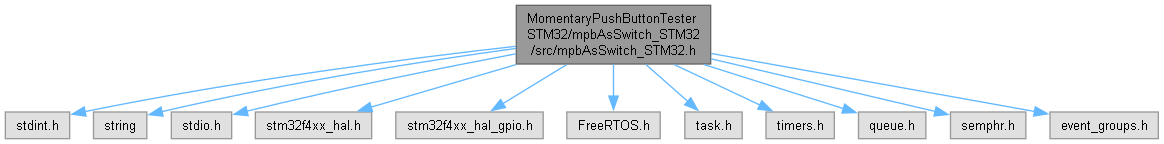
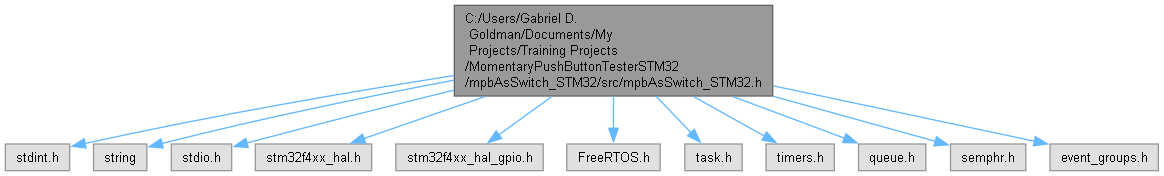
Documentation generation parameters reconfiguration

Changed region(s): [[0.0, 0.0, 1.0, 0.9722]]

diff --git a/docs/mpb_as_switch___s_t_m32_8h.html b/docs/mpb_as_switch___s_t_m32_8h.html
@@ -5,7 +5,7 @@
 <meta http-equiv="X-UA-Compatible" content="IE=11"/>
 <meta name="generator" content="Doxygen 1.10.0"/>
 <meta name="viewport" content="width=device-width, initial-scale=1"/>
-<title>MpbAsSwitch Library for STM32: MomentaryPushButtonTesterSTM32/mpbAsSwitch_STM32/src/mpbAsSwitch_STM32.h File Reference</title>
+<title>MpbAsSwitch Library for STM32: C:/Users/Gabriel D. Goldman/Documents/My Projects/Training Projects/MomentaryPushButtonTesterSTM32/mpbAsSwitch_STM32/src/mpbAsSwitch_STM32.h File Reference</title>
 <link href="tabs.css" rel="stylesheet" type="text/css"/>
 <script type="text/javascript" src="jquery.js"></script>
 <script type="text/javascript" src="dynsections.js"></script>
@@ -115,41 +115,41 @@ $(function(){initNavTree('mpb_as_switch___s_t_m32_8h.html',''); initResizable();
 </div><div class="textblock"><div class="dynheader">
 Include dependency graph for mpbAsSwitch_STM32.h:</div>
 <div class="dyncontent">
-<div class="center"><img src="mpb_as_switch___s_t_m32_8h__incl.png" border="0" usemap="#a_momentary_push_button_tester_s_t_m32_2mpb_as_switch___s_t_m32_2src_2mpb_as_switch___s_t_m32_8h" alt=""/></div>
-<map name="a_momentary_push_button_tester_s_t_m32_2mpb_as_switch___s_t_m32_2src_2mpb_as_switch___s_t_m32_8h" id="a_momentary_push_button_tester_s_t_m32_2mpb_as_switch___s_t_m32_2src_2mpb_as_switch___s_t_m32_8h">
-<area shape="rect" title=": Header file for the MpbAsSwitch_STM32 library classes" alt="" coords="516,5,711,64"/>
-<area shape="rect" title=" " alt="" coords="5,112,70,139"/>
-<area shape="poly" title=" " alt="" coords="516,49,321,74,85,114,84,109,320,69,515,44"/>
-<area shape="rect" title=" " alt="" coords="94,112,147,139"/>
-<area shape="poly" title=" " alt="" coords="516,51,355,76,163,114,161,109,354,71,516,46"/>
-<area shape="rect" title=" " alt="" coords="171,112,232,139"/>
-<area shape="poly" title=" " alt="" coords="516,56,392,81,247,114,246,109,391,76,515,51"/>
-<area shape="rect" title=" " alt="" coords="255,112,372,139"/>
-<area shape="poly" title=" " alt="" coords="517,67,372,110,370,105,515,62"/>
-<area shape="rect" title=" " alt="" coords="396,112,543,139"/>
-<area shape="poly" title=" " alt="" coords="568,67,504,106,501,101,565,62"/>
-<area shape="rect" title=" " alt="" coords="567,112,660,139"/>
-<area shape="poly" title=" " alt="" coords="616,64,616,96,611,96,611,64"/>
-<area shape="rect" title=" " alt="" coords="685,112,742,139"/>
-<area shape="poly" title=" " alt="" coords="647,62,690,100,686,104,644,66"/>
-<area shape="rect" title=" " alt="" coords="766,112,834,139"/>
-<area shape="poly" title=" " alt="" coords="675,62,761,103,759,107,673,67"/>
-<area shape="rect" title=" " alt="" coords="859,112,926,139"/>
-<area shape="poly" title=" " alt="" coords="705,62,844,106,843,111,703,67"/>
-<area shape="rect" title=" " alt="" coords="951,112,1026,139"/>
-<area shape="poly" title=" " alt="" coords="712,56,936,109,935,114,710,61"/>
-<area shape="rect" title=" " alt="" coords="1050,112,1158,139"/>
-<area shape="poly" title=" " alt="" coords="712,51,1035,109,1034,114,711,56"/>
+<div class="center"><img src="mpb_as_switch___s_t_m32_8h__incl.png" border="0" usemap="#a_c_1_2_users_2_gabriel_01_d_8_01_goldman_2_documents_2_my_01_projects_2_training_01_projects_2_momentary_push_button_tester_s_t_m32_2mpb_as_switch___s_t_m32_2src_2mpb_as_switch___s_t_m32_8h" alt=""/></div>
+<map name="a_c_1_2_users_2_gabriel_01_d_8_01_goldman_2_documents_2_my_01_projects_2_training_01_projects_2_momentary_push_button_tester_s_t_m32_2mpb_as_switch___s_t_m32_2src_2mpb_as_switch___s_t_m32_8h" id="a_c_1_2_users_2_gabriel_01_d_8_01_goldman_2_documents_2_my_01_projects_2_training_01_projects_2_momentary_push_button_tester_s_t_m32_2mpb_as_switch___s_t_m32_2src_2mpb_as_switch___s_t_m32_8h">
+<area shape="rect" title=": Header file for the MpbAsSwitch_STM32 library classes" alt="" coords="454,5,773,96"/>
+<area shape="rect" title=" " alt="" coords="5,144,70,171"/>
+<area shape="poly" title=" " alt="" coords="454,78,281,107,85,146,84,141,280,102,453,73"/>
+<area shape="rect" title=" " alt="" coords="94,144,147,171"/>
+<area shape="poly" title=" " alt="" coords="454,83,316,111,162,146,161,141,315,105,453,78"/>
+<area shape="rect" title=" " alt="" coords="171,144,232,171"/>
+<area shape="poly" title=" " alt="" coords="455,93,247,146,246,140,453,88"/>
+<area shape="rect" title=" " alt="" coords="255,144,372,171"/>
+<area shape="poly" title=" " alt="" coords="486,99,365,141,363,136,484,94"/>
+<area shape="rect" title=" " alt="" coords="396,144,543,171"/>
+<area shape="poly" title=" " alt="" coords="554,99,500,137,497,133,550,94"/>
+<area shape="rect" title=" " alt="" coords="567,144,660,171"/>
+<area shape="poly" title=" " alt="" coords="616,96,616,128,611,128,611,96"/>
+<area shape="rect" title=" " alt="" coords="685,144,742,171"/>
+<area shape="poly" title=" " alt="" coords="658,94,693,131,689,134,654,98"/>
+<area shape="rect" title=" " alt="" coords="766,144,834,171"/>
+<area shape="poly" title=" " alt="" coords="695,94,766,134,763,139,692,99"/>
+<area shape="rect" title=" " alt="" coords="859,144,926,171"/>
+<area shape="poly" title=" " alt="" coords="734,94,845,136,844,141,732,99"/>
+<area shape="rect" title=" " alt="" coords="951,144,1026,171"/>
+<area shape="poly" title=" " alt="" coords="774,94,936,139,935,144,772,99"/>
+<area shape="rect" title=" " alt="" coords="1050,144,1158,171"/>
+<area shape="poly" title=" " alt="" coords="774,83,1035,139,1034,144,773,88"/>
 </map>
 </div>
 </div><div class="textblock"><div class="dynheader">
 This graph shows which files directly or indirectly include this file:</div>
 <div class="dyncontent">
-<div class="center"><img src="mpb_as_switch___s_t_m32_8h__dep__incl.png" border="0" usemap="#a_momentary_push_button_tester_s_t_m32_2mpb_as_switch___s_t_m32_2src_2mpb_as_switch___s_t_m32_8hdep" alt=""/></div>
-<map name="a_momentary_push_button_tester_s_t_m32_2mpb_as_switch___s_t_m32_2src_2mpb_as_switch___s_t_m32_8hdep" id="a_momentary_push_button_tester_s_t_m32_2mpb_as_switch___s_t_m32_2src_2mpb_as_switch___s_t_m32_8hdep">
-<area shape="rect" title=": Header file for the MpbAsSwitch_STM32 library classes" alt="" coords="8,5,203,64"/>
-<area shape="rect" href="mpb_as_switch___s_t_m32_8cpp.html" title=": Source file for mpbAsSwitch_STM32 library classes methods" alt="" coords="5,112,206,171"/>
-<area shape="poly" title=" " alt="" coords="108,80,108,112,103,112,103,80"/>
+<div class="center"><img src="mpb_as_switch___s_t_m32_8h__dep__incl.png" border="0" usemap="#a_c_1_2_users_2_gabriel_01_d_8_01_goldman_2_documents_2_my_01_projects_2_training_01_projects_2_momentary_push_button_tester_s_t_m32_2mpb_as_switch___s_t_m32_2src_2mpb_as_switch___s_t_m32_8hdep" alt=""/></div>
+<map name="a_c_1_2_users_2_gabriel_01_d_8_01_goldman_2_documents_2_my_01_projects_2_training_01_projects_2_momentary_push_button_tester_s_t_m32_2mpb_as_switch___s_t_m32_2src_2mpb_as_switch___s_t_m32_8hdep" id="a_c_1_2_users_2_gabriel_01_d_8_01_goldman_2_documents_2_my_01_projects_2_training_01_projects_2_momentary_push_button_tester_s_t_m32_2mpb_as_switch___s_t_m32_2src_2mpb_as_switch___s_t_m32_8hdep">
+<area shape="rect" title=": Header file for the MpbAsSwitch_STM32 library classes" alt="" coords="5,5,324,96"/>
+<area shape="rect" href="mpb_as_switch___s_t_m32_8cpp.html" title=": Source file for mpbAsSwitch_STM32 library classes methods" alt="" coords="35,144,294,251"/>
+<area shape="poly" title=" " alt="" coords="167,112,167,143,162,143,162,112"/>
 </map>
 </div>
 </div>
@@ -245,7 +245,7 @@ Functions</h2></td></tr>
 <!-- start footer part -->
 <div id="nav-path" class="navpath"><!-- id is needed for treeview function! -->
   <ul>
-    <li class="navelem"><a class="el" href="dir_7a01880f1ccc9d36ca1d9e8d8522be43.html">MomentaryPushButtonTesterSTM32</a></li><li class="navelem"><a class="el" href="dir_9989949128607fa5c01dcc273d537277.html">mpbAsSwitch_STM32</a></li><li class="navelem"><a class="el" href="dir_26369db5e9e0b77b44bdca6bdc1633db.html">src</a></li><li class="navelem"><a class="el" href="mpb_as_switch___s_t_m32_8h.html">mpbAsSwitch_STM32.h</a></li>
+    <li class="navelem"><a class="el" href="dir_68267d1309a1af8e8297ef4c3efbcdba.html">src</a></li><li class="navelem"><a class="el" href="mpb_as_switch___s_t_m32_8h.html">mpbAsSwitch_STM32.h</a></li>
     <li class="footer">Generated by <a href="https://www.doxygen.org/index.html"><img class="footer" src="doxygen.svg" width="104" height="31" alt="doxygen"/></a> 1.10.0 </li>
   </ul>
 </div>

diff --git a/docs/mpb_as_switch___s_t_m32_8cpp.html b/docs/mpb_as_switch___s_t_m32_8cpp.html
@@ -5,7 +5,7 @@
 <meta http-equiv="X-UA-Compatible" content="IE=11"/>
 <meta name="generator" content="Doxygen 1.10.0"/>
 <meta name="viewport" content="width=device-width, initial-scale=1"/>
-<title>MpbAsSwitch Library for STM32: MomentaryPushButtonTesterSTM32/mpbAsSwitch_STM32/src/mpbAsSwitch_STM32.cpp File Reference</title>
+<title>MpbAsSwitch Library for STM32: C:/Users/Gabriel D. Goldman/Documents/My Projects/Training Projects/MomentaryPushButtonTesterSTM32/mpbAsSwitch_STM32/src/mpbAsSwitch_STM32.cpp File Reference</title>
 <link href="tabs.css" rel="stylesheet" type="text/css"/>
 <script type="text/javascript" src="jquery.js"></script>
 <script type="text/javascript" src="dynsections.js"></script>
@@ -104,33 +104,33 @@ $(function(){initNavTree('mpb_as_switch___s_t_m32_8cpp.html',''); initResizable(
 </div><div class="textblock"><div class="dynheader">
 Include dependency graph for mpbAsSwitch_STM32.cpp:</div>
 <div class="dyncontent">
-<div class="center"><img src="mpb_as_switch___s_t_m32_8cpp__incl.png" border="0" usemap="#a_momentary_push_button_tester_s_t_m32_2mpb_as_switch___s_t_m32_2src_2mpb_as_switch___s_t_m32_8cpp" alt=""/></div>
-<map name="a_momentary_push_button_tester_s_t_m32_2mpb_as_switch___s_t_m32_2src_2mpb_as_switch___s_t_m32_8cpp" id="a_momentary_push_button_tester_s_t_m32_2mpb_as_switch___s_t_m32_2src_2mpb_as_switch___s_t_m32_8cpp">
-<area shape="rect" title=": Source file for mpbAsSwitch_STM32 library classes methods" alt="" coords="513,5,714,64"/>
-<area shape="rect" href="mpb_as_switch___s_t_m32_8h.html" title=": Header file for the MpbAsSwitch_STM32 library classes" alt="" coords="533,112,694,139"/>
-<area shape="poly" title=" " alt="" coords="616,64,616,96,611,96,611,64"/>
-<area shape="rect" title=" " alt="" coords="5,187,70,213"/>
-<area shape="poly" title=" " alt="" coords="533,135,333,153,211,168,85,189,85,184,210,163,333,148,532,129"/>
-<area shape="rect" title=" " alt="" coords="94,187,147,213"/>
-<area shape="poly" title=" " alt="" coords="533,136,366,154,266,169,163,189,162,184,265,164,365,149,532,131"/>
-<area shape="rect" title=" " alt="" coords="171,187,232,213"/>
-<area shape="poly" title=" " alt="" coords="533,139,403,159,247,189,246,183,402,154,532,134"/>
-<area shape="rect" title=" " alt="" coords="255,187,372,213"/>
-<area shape="poly" title=" " alt="" coords="562,142,381,185,380,180,560,137"/>
-<area shape="rect" title=" " alt="" coords="396,187,543,213"/>
-<area shape="poly" title=" " alt="" coords="590,142,510,182,507,177,587,137"/>
-<area shape="rect" title=" " alt="" coords="567,187,660,213"/>
-<area shape="poly" title=" " alt="" coords="616,139,616,171,611,171,611,139"/>
-<area shape="rect" title=" " alt="" coords="685,187,742,213"/>
-<area shape="poly" title=" " alt="" coords="632,137,685,175,682,179,629,141"/>
-<area shape="rect" title=" " alt="" coords="766,187,834,213"/>
-<area shape="poly" title=" " alt="" coords="647,137,754,178,752,183,645,142"/>
-<area shape="rect" title=" " alt="" coords="859,187,926,213"/>
-<area shape="poly" title=" " alt="" coords="664,137,844,183,843,188,662,142"/>
-<area shape="rect" title=" " alt="" coords="951,187,1026,213"/>
-<area shape="poly" title=" " alt="" coords="688,137,936,184,935,189,687,142"/>
-<area shape="rect" title=" " alt="" coords="1050,187,1158,213"/>
-<area shape="poly" title=" " alt="" coords="695,135,1035,184,1034,189,694,140"/>
+<div class="center"><img src="mpb_as_switch___s_t_m32_8cpp__incl.png" border="0" usemap="#a_c_1_2_users_2_gabriel_01_d_8_01_goldman_2_documents_2_my_01_projects_2_training_01_projects_2_momentary_push_button_tester_s_t_m32_2mpb_as_switch___s_t_m32_2src_2mpb_as_switch___s_t_m32_8cpp" alt=""/></div>
+<map name="a_c_1_2_users_2_gabriel_01_d_8_01_goldman_2_documents_2_my_01_projects_2_training_01_projects_2_momentary_push_button_tester_s_t_m32_2mpb_as_switch___s_t_m32_2src_2mpb_as_switch___s_t_m32_8cpp" id="a_c_1_2_users_2_gabriel_01_d_8_01_goldman_2_documents_2_my_01_projects_2_training_01_projects_2_momentary_push_button_tester_s_t_m32_2mpb_as_switch___s_t_m32_2src_2mpb_as_switch___s_t_m32_8cpp">
+<area shape="rect" title=": Source file for mpbAsSwitch_STM32 library classes methods" alt="" coords="484,5,743,112"/>
+<area shape="rect" href="mpb_as_switch___s_t_m32_8h.html" title=": Header file for the MpbAsSwitch_STM32 library classes" alt="" coords="533,160,694,187"/>
+<area shape="poly" title=" " alt="" coords="616,112,616,144,611,144,611,112"/>
+<area shape="rect" title=" " alt="" coords="5,235,70,261"/>
+<area shape="poly" title=" " alt="" coords="533,183,333,201,211,216,85,237,85,232,210,211,333,196,532,177"/>
+<area shape="rect" title=" " alt="" coords="94,235,147,261"/>
+<area shape="poly" title=" " alt="" coords="533,184,366,202,266,217,163,237,162,232,265,212,365,197,532,179"/>
+<area shape="rect" title=" " alt="" coords="171,235,232,261"/>
+<area shape="poly" title=" " alt="" coords="533,187,403,207,247,237,246,231,402,202,532,182"/>
+<area shape="rect" title=" " alt="" coords="255,235,372,261"/>
+<area shape="poly" title=" " alt="" coords="562,190,381,233,380,228,560,185"/>
+<area shape="rect" title=" " alt="" coords="396,235,543,261"/>
+<area shape="poly" title=" " alt="" coords="590,190,510,230,507,225,587,185"/>
+<area shape="rect" title=" " alt="" coords="567,235,660,261"/>
+<area shape="poly" title=" " alt="" coords="616,187,616,219,611,219,611,187"/>
+<area shape="rect" title=" " alt="" coords="685,235,742,261"/>
+<area shape="poly" title=" " alt="" coords="632,185,685,223,682,227,629,189"/>
+<area shape="rect" title=" " alt="" coords="766,235,834,261"/>
+<area shape="poly" title=" " alt="" coords="647,185,754,226,752,231,645,190"/>
+<area shape="rect" title=" " alt="" coords="859,235,926,261"/>
+<area shape="poly" title=" " alt="" coords="664,185,844,231,843,236,662,190"/>
+<area shape="rect" title=" " alt="" coords="951,235,1026,261"/>
+<area shape="poly" title=" " alt="" coords="688,185,936,232,935,237,687,190"/>
+<area shape="rect" title=" " alt="" coords="1050,235,1158,261"/>
+<area shape="poly" title=" " alt="" coords="695,183,1035,232,1034,237,694,188"/>
 </map>
 </div>
 </div><table class="memberdecls">
@@ -182,7 +182,7 @@ Functions</h2></td></tr>
 <!-- start footer part -->
 <div id="nav-path" class="navpath"><!-- id is needed for treeview function! -->
   <ul>
-    <li class="navelem"><a class="el" href="dir_7a01880f1ccc9d36ca1d9e8d8522be43.html">MomentaryPushButtonTesterSTM32</a></li><li class="navelem"><a class="el" href="dir_9989949128607fa5c01dcc273d537277.html">mpbAsSwitch_STM32</a></li><li class="navelem"><a class="el" href="dir_26369db5e9e0b77b44bdca6bdc1633db.html">src</a></li><li class="navelem"><a class="el" href="mpb_as_switch___s_t_m32_8cpp.html">mpbAsSwitch_STM32.cpp</a></li>
+    <li class="navelem"><a class="el" href="dir_68267d1309a1af8e8297ef4c3efbcdba.html">src</a></li><li class="navelem"><a class="el" href="mpb_as_switch___s_t_m32_8cpp.html">mpbAsSwitch_STM32.cpp</a></li>
     <li class="footer">Generated by <a href="https://www.doxygen.org/index.html"><img class="footer" src="doxygen.svg" width="104" height="31" alt="doxygen"/></a> 1.10.0 </li>
   </ul>
 </div>

diff --git a/docs/dir_68267d1309a1af8e8297ef4c3efbcdba.html b/docs/dir_68267d1309a1af8e8297ef4c3efbcdba.html
@@ -5,7 +5,7 @@
 <meta http-equiv="X-UA-Compatible" content="IE=11"/>
 <meta name="generator" content="Doxygen 1.10.0"/>
 <meta name="viewport" content="width=device-width, initial-scale=1"/>
-<title>MpbAsSwitch Library for STM32: gpioPinId_t Struct Reference</title>
+<title>MpbAsSwitch Library for STM32: C:/Users/Gabriel D. Goldman/Documents/My Projects/Training Projects/MomentaryPushButtonTesterSTM32/mpbAsSwitch_STM32/src Directory Reference</title>
 <link href="tabs.css" rel="stylesheet" type="text/css"/>
 <script type="text/javascript" src="jquery.js"></script>
 <script type="text/javascript" src="dynsections.js"></script>
@@ -66,7 +66,7 @@ $(function() {
 </div>
 <script type="text/javascript">
 /* @license magnet:?xt=urn:btih:d3d9a9a6595521f9666a5e94cc830dab83b65699&amp;dn=expat.txt MIT */
-$(function(){initNavTree('structgpio_pin_id__t.html',''); initResizable(); });
+$(function(){initNavTree('dir_68267d1309a1af8e8297ef4c3efbcdba.html',''); initResizable(); });
 /* @license-end */
 </script>
 <div id="doc-content">
@@ -92,68 +92,25 @@ $(function(){initNavTree('structgpio_pin_id__t.html',''); initResizable(); });
 </div>
 
 <div class="header">
-  <div class="summary">
-<a href="#pub-attribs">Public Attributes</a> &#124;
-<a href="structgpio_pin_id__t-members.html">List of all members</a>  </div>
-  <div class="headertitle"><div class="title">gpioPinId_t Struct Reference</div></div>
+  <div class="headertitle"><div class="title">src Directory Reference</div></div>
 </div><!--header-->
 <div class="contents">
-
-<p>Structure that holds all the required information to identify unequivocally a MCU's GPIO pin.  
- <a href="#details">More...</a></p>
-
-<p><code>#include &lt;<a class="el" href="mpb_as_switch___s_t_m32_8h_source.html">mpbAsSwitch_STM32.h</a>&gt;</code></p>
 <table class="memberdecls">
-<tr class="heading"><td colspan="2"><h2 class="groupheader"><a id="pub-attribs" name="pub-attribs"></a>
-Public Attributes</h2></td></tr>
-<tr class="memitem:afd12b64b1384968ddabc191ee5018f6d" id="r_afd12b64b1384968ddabc191ee5018f6d"><td class="memItemLeft" align="right" valign="top">GPIO_TypeDef *&#160;</td><td class="memItemRight" valign="bottom"><a class="el" href="#afd12b64b1384968ddabc191ee5018f6d">portId</a></td></tr>
-<tr class="separator:afd12b64b1384968ddabc191ee5018f6d"><td class="memSeparator" colspan="2">&#160;</td></tr>
-<tr class="memitem:a253157d338560df0fef34d2978ce170d" id="r_a253157d338560df0fef34d2978ce170d"><td class="memItemLeft" align="right" valign="top">uint16_t&#160;</td><td class="memItemRight" valign="bottom"><a class="el" href="#a253157d338560df0fef34d2978ce170d">pinNum</a></td></tr>
-<tr class="separator:a253157d338560df0fef34d2978ce170d"><td class="memSeparator" colspan="2">&#160;</td></tr>
+<tr class="heading"><td colspan="2"><h2 class="groupheader"><a id="files" name="files"></a>
+Files</h2></td></tr>
+<tr class="memitem:"><td class="memItemLeft" align="right" valign="top"><span class="icondoc"></span>&#160;</td><td class="memItemRight" valign="bottom"><a class="el" href="mpb_as_switch___s_t_m32_8cpp.html">mpbAsSwitch_STM32.cpp</a></td></tr>
+<tr class="memdesc:mpb_as_switch___s_t_m32_8cpp"><td class="mdescLeft">&#160;</td><td class="mdescRight">: Source file for mpbAsSwitch_STM32 library classes methods <br /></td></tr>
+<tr class="separator:"><td class="memSeparator" colspan="2">&#160;</td></tr>
+<tr class="memitem:"><td class="memItemLeft" align="right" valign="top"><a href="mpb_as_switch___s_t_m32_8h_source.html"><span class="icondoc"></span></a>&#160;</td><td class="memItemRight" valign="bottom"><a class="el" href="mpb_as_switch___s_t_m32_8h.html">mpbAsSwitch_STM32.h</a></td></tr>
+<tr class="memdesc:mpb_as_switch___s_t_m32_8h"><td class="mdescLeft">&#160;</td><td class="mdescRight">: Header file for the MpbAsSwitch_STM32 library classes <br /></td></tr>
+<tr class="separator:"><td class="memSeparator" colspan="2">&#160;</td></tr>
 </table>
-<a name="details" id="details"></a><h2 class="groupheader">Detailed Description</h2>
-<div class="textblock"><p>Structure that holds all the required information to identify unequivocally a MCU's GPIO pin. </p>
-<p>A GPIO pin identification is MCU and framework dependent, so the quantity and type of parameters vary. This structure provides an interface to abstract them as a single identification parameter. </p>
-</div><h2 class="groupheader">Member Data Documentation</h2>
-<a id="a253157d338560df0fef34d2978ce170d" name="a253157d338560df0fef34d2978ce170d"></a>
-<h2 class="memtitle"><span class="permalink"><a href="#a253157d338560df0fef34d2978ce170d">&#9670;&#160;</a></span>pinNum</h2>
-
-<div class="memitem">
-<div class="memproto">
-      <table class="memname">
-        <tr>
-          <td class="memname">uint16_t gpioPinId_t::pinNum</td>
-        </tr>
-      </table>
-</div><div class="memdoc">
-<p>The number of pin represented as a one bit set binary with the set bit position indicating the pin number </p>
-
-</div>
-</div>
-<a id="afd12b64b1384968ddabc191ee5018f6d" name="afd12b64b1384968ddabc191ee5018f6d"></a>
-<h2 class="memtitle"><span class="permalink"><a href="#afd12b64b1384968ddabc191ee5018f6d">&#9670;&#160;</a></span>portId</h2>
-
-<div class="memitem">
-<div class="memproto">
-      <table class="memname">
-        <tr>
-          <td class="memname">GPIO_TypeDef* gpioPinId_t::portId</td>
-        </tr>
-      </table>
-</div><div class="memdoc">
-<p>The port identification as a pointer to a GPIO_TypeDef information structure </p>
-
-</div>
-</div>
-<hr/>The documentation for this struct was generated from the following file:<ul>
-<li>C:/Users/Gabriel D. Goldman/Documents/My Projects/Training Projects/MomentaryPushButtonTesterSTM32/mpbAsSwitch_STM32/src/<a class="el" href="mpb_as_switch___s_t_m32_8h_source.html">mpbAsSwitch_STM32.h</a></li>
-</ul>
 </div><!-- contents -->
 </div><!-- doc-content -->
 <!-- start footer part -->
 <div id="nav-path" class="navpath"><!-- id is needed for treeview function! -->
   <ul>
-    <li class="navelem"><a class="el" href="structgpio_pin_id__t.html">gpioPinId_t</a></li>
+    <li class="navelem"><a class="el" href="dir_68267d1309a1af8e8297ef4c3efbcdba.html">src</a></li>
     <li class="footer">Generated by <a href="https://www.doxygen.org/index.html"><img class="footer" src="doxygen.svg" width="104" height="31" alt="doxygen"/></a> 1.10.0 </li>
   </ul>
 </div>

diff --git a/docs/files.html b/docs/files.html
@@ -96,12 +96,10 @@ $(function(){initNavTree('files.html',''); initResizable(); });
 </div><!--header-->
 <div class="contents">
 <div class="textblock">Here is a list of all documented files with brief descriptions:</div><div class="directory">
-<div class="levels">[detail level <span onclick="javascript:dynsection.toggleLevel(1);">1</span><span onclick="javascript:dynsection.toggleLevel(2);">2</span><span onclick="javascript:dynsection.toggleLevel(3);">3</span><span onclick="javascript:dynsection.toggleLevel(4);">4</span>]</div><table class="directory">
-<tr id="row_0_" class="even"><td class="entry"><span style="width:0px;display:inline-block;">&#160;</span><span id="arr_0_" class="arrow" onclick="dynsection.toggleFolder('0_')">&#9660;</span><span id="img_0_" class="iconfopen" onclick="dynsection.toggleFolder('0_')">&#160;</span><a class="el" href="dir_7a01880f1ccc9d36ca1d9e8d8522be43.html" target="_self">MomentaryPushButtonTesterSTM32</a></td><td class="desc"></td></tr>
-<tr id="row_0_0_" class="odd"><td class="entry"><span style="width:16px;display:inline-block;">&#160;</span><span id="arr_0_0_" class="arrow" onclick="dynsection.toggleFolder('0_0_')">&#9660;</span><span id="img_0_0_" class="iconfopen" onclick="dynsection.toggleFolder('0_0_')">&#160;</span><a class="el" href="dir_9989949128607fa5c01dcc273d537277.html" target="_self">mpbAsSwitch_STM32</a></td><td class="desc"></td></tr>
-<tr id="row_0_0_0_" class="even"><td class="entry"><span style="width:32px;display:inline-block;">&#160;</span><span id="arr_0_0_0_" class="arrow" onclick="dynsection.toggleFolder('0_0_0_')">&#9660;</span><span id="img_0_0_0_" class="iconfopen" onclick="dynsection.toggleFolder('0_0_0_')">&#160;</span><a class="el" href="dir_26369db5e9e0b77b44bdca6bdc1633db.html" target="_self">src</a></td><td class="desc"></td></tr>
-<tr id="row_0_0_0_0_" class="odd"><td class="entry"><span style="width:64px;display:inline-block;">&#160;</span><span class="icondoc"></span><a class="el" href="mpb_as_switch___s_t_m32_8cpp.html" target="_self">mpbAsSwitch_STM32.cpp</a></td><td class="desc">: Source file for mpbAsSwitch_STM32 library classes methods </td></tr>
-<tr id="row_0_0_0_1_" class="even"><td class="entry"><span style="width:64px;display:inline-block;">&#160;</span><a href="mpb_as_switch___s_t_m32_8h_source.html"><span class="icondoc"></span></a><a class="el" href="mpb_as_switch___s_t_m32_8h.html" target="_self">mpbAsSwitch_STM32.h</a></td><td class="desc">: Header file for the MpbAsSwitch_STM32 library classes </td></tr>
+<div class="levels">[detail level <span onclick="javascript:dynsection.toggleLevel(1);">1</span><span onclick="javascript:dynsection.toggleLevel(2);">2</span>]</div><table class="directory">
+<tr id="row_0_" class="even"><td class="entry"><span style="width:0px;display:inline-block;">&#160;</span><span id="arr_0_" class="arrow" onclick="dynsection.toggleFolder('0_')">&#9660;</span><span id="img_0_" class="iconfopen" onclick="dynsection.toggleFolder('0_')">&#160;</span><a class="el" href="dir_68267d1309a1af8e8297ef4c3efbcdba.html" target="_self">src</a></td><td class="desc"></td></tr>
+<tr id="row_0_0_" class="odd"><td class="entry"><span style="width:32px;display:inline-block;">&#160;</span><span class="icondoc"></span><a class="el" href="mpb_as_switch___s_t_m32_8cpp.html" target="_self">mpbAsSwitch_STM32.cpp</a></td><td class="desc">: Source file for mpbAsSwitch_STM32 library classes methods </td></tr>
+<tr id="row_0_1_" class="even"><td class="entry"><span style="width:32px;display:inline-block;">&#160;</span><a href="mpb_as_switch___s_t_m32_8h_source.html"><span class="icondoc"></span></a><a class="el" href="mpb_as_switch___s_t_m32_8h.html" target="_self">mpbAsSwitch_STM32.h</a></td><td class="desc">: Header file for the MpbAsSwitch_STM32 library classes </td></tr>
 </table>
 </div><!-- directory -->
 </div><!-- contents -->

diff --git a/docs/class_hntd_tm_ltch_m_p_bttn.html b/docs/class_hntd_tm_ltch_m_p_bttn.html
@@ -260,8 +260,8 @@ virtual&#160;</td><td class="memItemRight" valign="bottom"><b>~DbncdMPBttn</b> (
 <p>The <b>Staircase switch</b> keeps the ON state since the moment the signal is stable (debouncing + delay process), and until the unlatch signal is provided by a preseted timer <b>started immediately after</b> the MPB has passed the debounce &amp; delay process, and a warning flag might be configured to raise when time to keep the ON signal is close to expiration, based on a configurable % of the total <b>On State</b> time. The time countdown might be reseted by pressing the MPB before the timer expires by optionally configuring the object to do so with the provided method. A <b>Pilot Signal</b> flag is included to emulate completely the staircase switches, that might be activated or not by the provided method, it might be considered just a perk as it's not much more than the <b>isOn</b> flag negated output, but gives the advantage of freeing the designer of added coding.</p>
 <p>class <a class="el" href="class_hntd_tm_ltch_m_p_bttn.html" title="Implements a Hinted Timer LDD-MPB, a.k.a. Staircase Switch (HTiLDD-MPB).">HntdTmLtchMPBttn</a> </p>
 </div><hr/>The documentation for this class was generated from the following files:<ul>
-<li>MomentaryPushButtonTesterSTM32/mpbAsSwitch_STM32/src/<a class="el" href="mpb_as_switch___s_t_m32_8h_source.html">mpbAsSwitch_STM32.h</a></li>
-<li>MomentaryPushButtonTesterSTM32/mpbAsSwitch_STM32/src/<a class="el" href="mpb_as_switch___s_t_m32_8cpp.html">mpbAsSwitch_STM32.cpp</a></li>
+<li>C:/Users/Gabriel D. Goldman/Documents/My Projects/Training Projects/MomentaryPushButtonTesterSTM32/mpbAsSwitch_STM32/src/<a class="el" href="mpb_as_switch___s_t_m32_8h_source.html">mpbAsSwitch_STM32.h</a></li>
+<li>C:/Users/Gabriel D. Goldman/Documents/My Projects/Training Projects/MomentaryPushButtonTesterSTM32/mpbAsSwitch_STM32/src/<a class="el" href="mpb_as_switch___s_t_m32_8cpp.html">mpbAsSwitch_STM32.cpp</a></li>
 </ul>
 </div><!-- contents -->
 </div><!-- doc-content -->

diff --git a/docs/mpb_as_switch___s_t_m32_8h_source.html b/docs/mpb_as_switch___s_t_m32_8h_source.html
@@ -5,7 +5,7 @@
 <meta http-equiv="X-UA-Compatible" content="IE=11"/>
 <meta name="generator" content="Doxygen 1.10.0"/>
 <meta name="viewport" content="width=device-width, initial-scale=1"/>
-<title>MpbAsSwitch Library for STM32: MomentaryPushButtonTesterSTM32/mpbAsSwitch_STM32/src/mpbAsSwitch_STM32.h Source File</title>
+<title>MpbAsSwitch Library for STM32: C:/Users/Gabriel D. Goldman/Documents/My Projects/Training Projects/MomentaryPushButtonTesterSTM32/mpbAsSwitch_STM32/src/mpbAsSwitch_STM32.h Source File</title>
 <link href="tabs.css" rel="stylesheet" type="text/css"/>
 <script type="text/javascript" src="jquery.js"></script>
 <script type="text/javascript" src="dynsections.js"></script>
@@ -653,7 +653,7 @@ $(function(){initNavTree('mpb_as_switch___s_t_m32_8h_source.html',''); initResiz
 <!-- start footer part -->
 <div id="nav-path" class="navpath"><!-- id is needed for treeview function! -->
   <ul>
-    <li class="navelem"><a class="el" href="dir_7a01880f1ccc9d36ca1d9e8d8522be43.html">MomentaryPushButtonTesterSTM32</a></li><li class="navelem"><a class="el" href="dir_9989949128607fa5c01dcc273d537277.html">mpbAsSwitch_STM32</a></li><li class="navelem"><a class="el" href="dir_26369db5e9e0b77b44bdca6bdc1633db.html">src</a></li><li class="navelem"><a class="el" href="mpb_as_switch___s_t_m32_8h.html">mpbAsSwitch_STM32.h</a></li>
+    <li class="navelem"><a class="el" href="dir_68267d1309a1af8e8297ef4c3efbcdba.html">src</a></li><li class="navelem"><a class="el" href="mpb_as_switch___s_t_m32_8h.html">mpbAsSwitch_STM32.h</a></li>
     <li class="footer">Generated by <a href="https://www.doxygen.org/index.html"><img class="footer" src="doxygen.svg" width="104" height="31" alt="doxygen"/></a> 1.10.0 </li>
   </ul>
 </div>

diff --git a/docs/class_vdbl_m_p_bttn.html b/docs/class_vdbl_m_p_bttn.html
@@ -253,8 +253,8 @@ virtual&#160;</td><td class="memItemRight" valign="bottom"><b>~DbncdMPBttn</b> (
 <div class="textblock"><p>Abstract class, base to implement Voidable DD-MPBs (VDD-MPB). </p>
 <p><b>Voidable DD-MPBs</b> are MPBs whose distinctive characteristic is that implement switches that while being pressed their state might change from <b>On State</b> to a <b>Voided &amp; Off state</b> due to different voiding conditions. Those conditions include but are not limited to: pressed time, external signals or reaching the <b>On state</b>. The mechanisms to "un-void" the MPB and return it to an operational state include but are not limited to: releasing the MPB, receiving an external signal, the reading of the <b>isOn</b> flag and others. The voiding condition and the un-voiding mechanism define the VDD-MPB subclasses. </p>
 </div><hr/>The documentation for this class was generated from the following files:<ul>
-<li>MomentaryPushButtonTesterSTM32/mpbAsSwitch_STM32/src/<a class="el" href="mpb_as_switch___s_t_m32_8h_source.html">mpbAsSwitch_STM32.h</a></li>
-<li>MomentaryPushButtonTesterSTM32/mpbAsSwitch_STM32/src/<a class="el" href="mpb_as_switch___s_t_m32_8cpp.html">mpbAsSwitch_STM32.cpp</a></li>
+<li>C:/Users/Gabriel D. Goldman/Documents/My Projects/Training Projects/MomentaryPushButtonTesterSTM32/mpbAsSwitch_STM32/src/<a class="el" href="mpb_as_switch___s_t_m32_8h_source.html">mpbAsSwitch_STM32.h</a></li>
+<li>C:/Users/Gabriel D. Goldman/Documents/My Projects/Training Projects/MomentaryPushButtonTesterSTM32/mpbAsSwitch_STM32/src/<a class="el" href="mpb_as_switch___s_t_m32_8cpp.html">mpbAsSwitch_STM32.cpp</a></li>
 </ul>
 </div><!-- contents -->
 </div><!-- doc-content -->

diff --git a/docs/class_ltch_m_p_bttn.html b/docs/class_ltch_m_p_bttn.html
@@ -265,8 +265,8 @@ virtual&#160;</td><td class="memItemRight" valign="bottom"><b>~DbncdMPBttn</b> (
 <div class="textblock"><p>Abstract class, base to implement Latched Debounced Delayed MPBs (<b>LDD-MPB</b>). </p>
 <p><b>Latched DD-MPB</b> are MPBs whose distinctive characteristic is that implement switches that keep the ON state since the moment the input signal is stable (debouncing + Delay process), and keeps the ON state after the MPB is released and until an event un-latches them, setting them free to move to the <b>Off State</b>. The un-latching mechanisms include but are not limited to: same MPB presses, timers, other MPB presses or external un-latch signals. The different un-latching events defines the sub-classes of the LDD-MPB class. </p>
 </div><hr/>The documentation for this class was generated from the following files:<ul>
-<li>MomentaryPushButtonTesterSTM32/mpbAsSwitch_STM32/src/<a class="el" href="mpb_as_switch___s_t_m32_8h_source.html">mpbAsSwitch_STM32.h</a></li>
-<li>MomentaryPushButtonTesterSTM32/mpbAsSwitch_STM32/src/<a class="el" href="mpb_as_switch___s_t_m32_8cpp.html">mpbAsSwitch_STM32.cpp</a></li>
+<li>C:/Users/Gabriel D. Goldman/Documents/My Projects/Training Projects/MomentaryPushButtonTesterSTM32/mpbAsSwitch_STM32/src/<a class="el" href="mpb_as_switch___s_t_m32_8h_source.html">mpbAsSwitch_STM32.h</a></li>
+<li>C:/Users/Gabriel D. Goldman/Documents/My Projects/Training Projects/MomentaryPushButtonTesterSTM32/mpbAsSwitch_STM32/src/<a class="el" href="mpb_as_switch___s_t_m32_8cpp.html">mpbAsSwitch_STM32.cpp</a></li>
 </ul>
 </div><!-- contents -->
 </div><!-- doc-content -->

diff --git a/docs/class_tggl_ltch_m_p_bttn.html b/docs/class_tggl_ltch_m_p_bttn.html
@@ -255,8 +255,8 @@ virtual&#160;</td><td class="memItemRight" valign="bottom"><b>~DbncdMPBttn</b> (
 <div class="textblock"><p>Implements a Toggle LDD-MPB, a.k.a. a Toggle Switch (<b>ToLDD-MPB</b>). </p>
 <p>The <b>Toggle switch</b> keeps the ON state since the moment the signal is stable (debouncing + delay process), and keeps the ON state after the push button is released and until it is pressed once again. So this simulates a simple On-Off switch like the ones used to turn on/off a room light. The included methods lets the designer define the unlatch event as the instant de MPB is started to be pressed for the second time or when the MPB is released from that second press. </p>
 </div><hr/>The documentation for this class was generated from the following files:<ul>
-<li>MomentaryPushButtonTesterSTM32/mpbAsSwitch_STM32/src/<a class="el" href="mpb_as_switch___s_t_m32_8h_source.html">mpbAsSwitch_STM32.h</a></li>
-<li>MomentaryPushButtonTesterSTM32/mpbAsSwitch_STM32/src/<a class="el" href="mpb_as_switch___s_t_m32_8cpp.html">mpbAsSwitch_STM32.cpp</a></li>
+<li>C:/Users/Gabriel D. Goldman/Documents/My Projects/Training Projects/MomentaryPushButtonTesterSTM32/mpbAsSwitch_STM32/src/<a class="el" href="mpb_as_switch___s_t_m32_8h_source.html">mpbAsSwitch_STM32.h</a></li>
+<li>C:/Users/Gabriel D. Goldman/Documents/My Projects/Training Projects/MomentaryPushButtonTesterSTM32/mpbAsSwitch_STM32/src/<a class="el" href="mpb_as_switch___s_t_m32_8cpp.html">mpbAsSwitch_STM32.cpp</a></li>
 </ul>
 </div><!-- contents -->
 </div><!-- doc-content -->

diff --git a/docs/class_tm_ltch_m_p_bttn.html b/docs/class_tm_ltch_m_p_bttn.html
@@ -258,8 +258,8 @@ virtual&#160;</td><td class="memItemRight" valign="bottom"><b>~DbncdMPBttn</b> (
 <p>The <b>Timer switch</b> keeps the ON state since the moment the signal is stable (debouncing + delay process), and until the unlatch signal is provided by a preseted timer <b>started immediately after</b> the MPB has passed the debounce &amp; delay process. The time countdown might be reseted by pressing the MPB before the timer expires by optionally configuring the object to do so with the provided method.</p>
 <p>class <a class="el" href="class_tm_ltch_m_p_bttn.html" title="Implements a Timer LDD-MPB, a.k.a. a Timer Switch (TiLDD-MPB).">TmLtchMPBttn</a> </p>
 </div><hr/>The documentation for this class was generated from the following files:<ul>
-<li>MomentaryPushButtonTesterSTM32/mpbAsSwitch_STM32/src/<a class="el" href="mpb_as_switch___s_t_m32_8h_source.html">mpbAsSwitch_STM32.h</a></li>
-<li>MomentaryPushButtonTesterSTM32/mpbAsSwitch_STM32/src/<a class="el" href="mpb_as_switch___s_t_m32_8cpp.html">mpbAsSwitch_STM32.cpp</a></li>
+<li>C:/Users/Gabriel D. Goldman/Documents/My Projects/Training Projects/MomentaryPushButtonTesterSTM32/mpbAsSwitch_STM32/src/<a class="el" href="mpb_as_switch___s_t_m32_8h_source.html">mpbAsSwitch_STM32.h</a></li>
+<li>C:/Users/Gabriel D. Goldman/Documents/My Projects/Training Projects/MomentaryPushButtonTesterSTM32/mpbAsSwitch_STM32/src/<a class="el" href="mpb_as_switch___s_t_m32_8cpp.html">mpbAsSwitch_STM32.cpp</a></li>
 </ul>
 </div><!-- contents -->
 </div><!-- doc-content -->

diff --git a/docs/navtreeindex0.js b/docs/navtreeindex0.js
@@ -52,9 +52,7 @@ var NAVTREEINDEX0 =
 "class_vdbl_m_p_bttn.html":[1,0,11],
 "class_xtrn_unltch_m_p_bttn.html":[1,0,12],
 "classes.html":[1,1],
-"dir_26369db5e9e0b77b44bdca6bdc1633db.html":[2,0,0,0,0],
-"dir_7a01880f1ccc9d36ca1d9e8d8522be43.html":[2,0,0],
-"dir_9989949128607fa5c01dcc273d537277.html":[2,0,0,0],
+"dir_68267d1309a1af8e8297ef4c3efbcdba.html":[2,0,0],
 "files.html":[2,0],
 "functions.html":[1,3,0],
 "functions_func.html":[1,3,1],
@@ -62,13 +60,13 @@ var NAVTREEINDEX0 =
 "globals.html":[2,1,0],
 "globals_func.html":[2,1,1],
 "hierarchy.html":[1,2],
-"index.html":[],
 "index.html":[0],
-"mpb_as_switch___s_t_m32_8cpp.html":[2,0,0,0,0,0],
-"mpb_as_switch___s_t_m32_8cpp.html#a2d4786dedee4fde298afb23bf2ba11ac":[2,0,0,0,0,0,0],
-"mpb_as_switch___s_t_m32_8h.html":[2,0,0,0,0,1],
-"mpb_as_switch___s_t_m32_8h.html#a2d4786dedee4fde298afb23bf2ba11ac":[2,0,0,0,0,1,13],
-"mpb_as_switch___s_t_m32_8h_source.html":[2,0,0,0,0,1],
+"index.html":[],
+"mpb_as_switch___s_t_m32_8cpp.html":[2,0,0,0],
+"mpb_as_switch___s_t_m32_8cpp.html#a2d4786dedee4fde298afb23bf2ba11ac":[2,0,0,0,0],
+"mpb_as_switch___s_t_m32_8h.html":[2,0,0,1],
+"mpb_as_switch___s_t_m32_8h.html#a2d4786dedee4fde298afb23bf2ba11ac":[2,0,0,1,13],
+"mpb_as_switch___s_t_m32_8h_source.html":[2,0,0,1],
 "pages.html":[],
 "structgpio_pin_id__t.html":[1,0,4],
 "structgpio_pin_id__t.html#a253157d338560df0fef34d2978ce170d":[1,0,4,0],

diff --git a/docs/index.html b/docs/index.html
@@ -95,7 +95,7 @@ $(function(){initNavTree('index.html',''); initResizable(); });
   <div class="headertitle"><div class="title">Momentary Push Buttons as Switches Library (<em><b>mpbAsSwitch</b></em>) </div></div>
 </div><!--header-->
 <div class="contents">
-<div class="textblock"><p><a class="anchor" id="md__momentary_push_button_tester_s_t_m32_2mpb_as_switch___s_t_m32_2_r_e_a_d_m_e"></a> </p>
+<div class="textblock"><p><a class="anchor" id="md__c_1_2_users_2_gabriel_01_d_8_01_goldman_2_documents_2_my_01_projects_2_training_01_projects_2_momentary_push_button_tester_s_t_m32_2mpb_as_switch___s_t_m32_2_r_e_a_d_m_e"></a> </p>
 <h2><a class="anchor" id="an-stm32-rtos-library-that-builds-switch-mechanisms-replacements-out-of-simple-push-buttons"></a>
 An STM32-RTOS library that builds switch mechanisms replacements out of simple push buttons.</h2>
 <p>By using just a push button (a.k.a. momentary switches or momentary buttons, <em><b>MPB</b></em> for short from here on) the classes implemented in this library will manage, calculate and update different parameters to <b>generate the behavior of standard electromechanical switches</b>, including some well known industry specific switches. Those parameters include presses, releases, timings, counters or secondary inputs readings as needed, and corresponding primary and secondary outputs generated. <br  />
